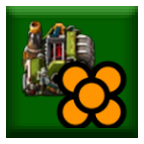
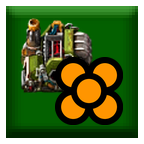
feat(upcycler-planner): declare the Space Age feature flag on the 2.0 build
The 2.0 counterpart of 0ed2088 on main. quality_required only:
expansion_required does not exist in Factorio 2.0, where a probe mod
declaring it loads clean on a no-expansion install, so it would gate
nothing. The engine agrees -- 2.0 enumerates seven feature flags to
2.1's eight, missing expansion -- and vanilla quality/info.json
splits the same way. quality_required was verified to refuse a
no-expansion 2.0 install, so it is the flag carrying the gate here.

Also brings the branch back in line with main where it had drifted
outside the declared divergent set: thumbnail.png had never received
the 7720ccd pip fix, and info.json still carried the pre-reword
description, which the portal would have flip-flopped between tracks
depending on which one published last.

Version 0.1.3, paired with 0.1.2 on main.

Changed region(s): [[0.1389, 0.1111, 0.8889, 0.8889]]

diff --git a/upcycler-planner/.ai-support/journal.md b/upcycler-planner/.ai-support/journal.md
@@ -9,6 +9,56 @@ everything older than the last release into `journal-archive/<year>.md` and leav
 
 ---
 
+## 2026-08-16 — Space Age feature flags, and the one that does not exist on 2.0
+
+The repo owner asked for the flag that makes the Space Age DLC mandatory, then for the mod to
+show up in the portal's Space Age section. Both landed, but the second ask is the one that
+actually decided the design.
+
+**The no-flag decision was reversed for a reason the old one never considered.** The original
+call weighed enforcement only, and on that ground it was right: behind a hard `quality`
+dependency, the flag gates nothing extra, because `quality` ships with Space Age and nothing
+else. What it missed is that the **mod portal tags a mod as Space Age from the expansion flags
+in its uploaded `info.json`, not from its dependency list** — so the mod was invisible in the
+portal's Space Age section no matter how hard the dependency was. That is not something the
+enforcement argument can see, and it is why the reversal is not a contradiction of the old
+entry so much as a different question.
+
+**The flag was measured rather than trusted, and the measurement paid.** Declaring a flag is a
+one-line edit that looks obviously correct, so the temptation was to write it and move on. Four
+throwaway probe mods — `info.json` only, one flag, no `quality` dependency — run against the
+two no-expansion installs settled it instead, and turned up the thing that would have shipped
+wrong: **`expansion_required` does not exist in Factorio 2.0.** The 2.0 probe declaring it
+**loaded clean on an install with no expansions at all**. Silently ignored, gating nothing — a
+dead field that reads at a glance exactly like a working gate. The engine's own startup log
+confirmed it independently: 2.1 enumerates eight feature flags, 2.0 enumerates seven, missing
+`expansion`. Vanilla `quality/info.json` agrees, declaring both flags in 2.1 and only
+`quality_required` in 2.0. Full table in `analysis/api.md` §13.
+
+So the flags fork along the same seam `info.json` already forks on, which is tidy: `main` gets
+`expansion_required` + `quality_required`, `legacy/2.0` gets `quality_required` alone. Both were
+verified to refuse a no-expansion install; `quality_required` is the one carrying the gate on
+both tracks.
+
+Two things worth knowing next time. **A refused mod crashes under `--dump-data` rather than
+printing a tidy error** — `ModManager::enterMinimalMode` in the stack trace on 2.1,
+`ModManager::loadData` on 2.0 — so the exit code alone reads as an ordinary failure and the
+stack trace is where the answer is. And **`space_travel_required` was rejected on honesty
+grounds**, not technical ones: it would have earned the portal tag too, but it unlocks planet
+and space-platform prototypes this mod never touches.
+
+What is still **unverified**: the portal tag itself. The portal API exposes no feature-flag
+field on any endpoint, so whether the Space Age section actually picks the mod up can only be
+confirmed after an upload — which needs the owner's approval for that specific release anyway.
+Wube's own statement (forum `p=698604`) names the expansion flags collectively rather than
+singling one out, and `quality_required` is among the DLC's own set, so the expectation is good
+but it is an expectation.
+
+Shipped as a paired release, prepared and stopped before upload: `0.1.2` for Factorio 2.1 and
+`0.1.3` for Factorio 2.0, both sections open at `Date: ????`. Both builds validate clean.
+
+---
+
 ## 2026-08-16 — a permanent test suite, and the eject question answered
 
 The scratch-harness era ended today: the assertion matrix every session had been rebuilding by

diff --git a/upcycler-planner/.ai-support/analysis/api.md b/upcycler-planner/.ai-support/analysis/api.md
@@ -393,3 +393,45 @@ already **carries** a player is enough, and headless GUI testing follows. The on
 player comes from the framework's bundled save, an external artifact — the specs'
 `before_all` asserts a connected player exists and says what to do when it does not.
 
+
+## 13. Space Age feature flags — the set forks between 2.0 and 2.1, verified 2026-08-16
+
+**`expansion_required` does not exist in Factorio 2.0.** The flag set is not the same on both
+tracks, which matters because a flag the game does not know is *silently ignored* rather than
+rejected — it would sit in `info.json` looking like a gate and enforcing nothing.
+
+The engine enumerates its flags at startup, and the two versions disagree by exactly one:
+
+| Install | Flags logged by `ModManager.cpp` |
+|---|---|
+| 2.1.14 | `expansion`, `expansion-shaders`, `freezing`, `quality`, `rail-bridges`, `segmented-units`, `space-travel`, `spoiling` — **eight** |
+| 2.0.77 | the same **minus `expansion`** — **seven** |
+
+Vanilla's own `quality/info.json` matches: 2.1's declares `expansion_required` **and**
+`quality_required`, 2.0's declares only `quality_required`.
+
+**Measured, not inferred.** Four one-file probe mods (`info.json` only, a single flag, no
+`quality` dependency) run through `validate.ps1` against the no-expansion installs:
+
+| Probe | 2.1 Vanilla | 2.0 Vanilla |
+|---|---|---|
+| `quality_required` | **refused** — `ModManager::enterMinimalMode` | **refused** — `ModManager::loadData` |
+| `expansion_required` | — | **loaded clean, exit 0** |
+
+Controls: the same `quality_required` probe loads clean on the 2.1 SA install (`Checksum of
+ff-probe: 0`), so the probes are well-formed and ownership is the only variable. A refusal
+surfaces as a *crash* under `--dump-data`, not a tidy message — there is no GUI to fall back
+to — so read the stack trace, not the exit code alone.
+
+Two consequences worth not re-deriving:
+
+- **Any one expansion flag makes the expansion mandatory**, and no flag is needed for the mod
+  to *consume* quality at runtime. This mod declares none of the prototype properties the
+  flags unlock; the flags are here as an ownership gate and a portal marker.
+- **The mod portal's "Space Age" tag keys off the expansion flags in the uploaded
+  `info.json`, not the dependency list** — so a mod depending on `quality` alone is *not*
+  tagged. Wube's statement names the flags collectively ("*the expansion flags (eg,
+  `space_travel_required`)*", forum `p=698604`), with `quality_required` among the DLC's own
+  set. **Unverified** for this mod: the portal API exposes no flag field, so the tag can only
+  be confirmed after an upload. `space_travel_required` would tag it too but is a false claim
+  here — it unlocks planet and space-platform prototypes this mod never touches.

diff --git a/upcycler-planner/.ai-support/decisions.md b/upcycler-planner/.ai-support/decisions.md
@@ -26,11 +26,24 @@ ships (leading dot).
   `pure-modules-realk`. `upcycler-` was rejected because the portal already carries a different
   mod named `upcycler`, likely to own that name and its derivatives; `up-` as too generic — "up"
   reads as a direction before it reads as a namespace.
-- **Hard dependency on `quality` (`>= 2.1.0` on `main`, `>= 2.0.0` on `legacy/2.0`), no
-  `quality_required` feature flag.** The mod is worthless without quality tiers, and unlike the
-  flag a hard dependency also fixes load order — the flag would only make Space Age ownership
-  mandatory. The one line delivers the recycler on both tracks: in 2.1 `quality` declares
-  `recycler >= 2.1.0`, and in 2.0 the recycler entity ships inside `quality` itself.
+- **Hard dependency on `quality` (`>= 2.1.0` on `main`, `>= 2.0.0` on `legacy/2.0`).** The mod
+  is worthless without quality tiers, and the dependency is the half that fixes load order —
+  feature flags do not. The one line delivers the recycler on both tracks: in 2.1 `quality`
+  declares `recycler >= 2.1.0`, and in 2.0 the recycler entity ships inside `quality` itself.
+- **Space Age feature flags are declared, and the set forks by game version:
+  `quality_required` on both tracks, `expansion_required` on `main` only.** Asked for by the
+  repo owner on 2026-08-16, reversing the earlier no-flag call — that call was made when the
+  only question was enforcement, where a flag is redundant behind the `quality` dependency.
+  The deciding reason is the **mod portal**, which tags a mod as Space Age from the expansion
+  flags in its uploaded `info.json` and *not* from its dependencies, so without a flag the mod
+  never appears in the portal's Space Age section however hard its dependency is.
+  `expansion_required` is omitted on `legacy/2.0` because **the flag does not exist in 2.0** —
+  measured, it is silently ignored there and gates nothing, which would be a dead field
+  pretending to be a gate (`analysis/api.md` §13). This mirrors vanilla `quality` exactly,
+  which declares both flags in 2.1 and only `quality_required` in 2.0. `space_travel_required`
+  was rejected: it would also earn the portal tag, but it unlocks planet and space-platform
+  prototypes this mod never touches, so declaring it would be a false claim about the mod.
+  Neither flag narrows the audience in practice — `quality` already ships only with Space Age.
 - **Both game tracks, forked — `main` carries no 2.0 code.** Ported to Factorio 2.0 on
   2026-08-16 at the repo owner's ask, reversing the earlier 2.1-only call — that call rested
   on "`recycler` is 2.1-only", and 2.0's `quality` mod ships the recycler entity itself, so

diff --git a/upcycler-planner/CLAUDE.md b/upcycler-planner/CLAUDE.md
@@ -92,10 +92,14 @@ work: reference only, never edited, never redistributed.
 
 The hard dependency on `quality` is deliberate and does double duty: the mod is meaningless
 without quality tiers, and it delivers the recycler on both tracks — in 2.1 `quality` itself
-declares `"recycler >= 2.1.0"`, and in 2.0 the recycler entity ships inside `quality`. **No
-`quality_required` feature flag is declared** — the flag would make Space Age ownership
-mandatory without fixing load order, which is the wrong half of what is needed. Reach for
-`feature_flags[...]` only if some behaviour should light up optionally.
+declares `"recycler >= 2.1.0"`, and in 2.0 the recycler entity ships inside `quality`. The
+dependency is also the only half of this that fixes load order; the flags below do not.
+
+**Space Age feature flags are declared, and the set forks by game version** — `quality_required`
+on both tracks, `expansion_required` on `main` **only**. Do not add `expansion_required` to
+`legacy/2.0`: the flag does not exist in Factorio 2.0, so it is silently ignored there and gates
+nothing. Do not add `space_travel_required` to either. Reasons in `.ai-support/decisions.md`; the
+measurements, including the flag set each version actually enumerates, in `analysis/api.md` §13.
 
 ## The 2.0 build
 
@@ -209,7 +213,8 @@ re-opening any of these, and don't restate a reason here.
 - Both tracks: Factorio 2.1 from `main`, 2.0 from `legacy/2.0`. No 2.0 code on `main` — the
   port is forked files on the legacy branch, declared in the repo `CLAUDE.md` → *Git*. Version
   starts at `0.1.0`.
-- Hard `quality >= 2.1.0` dependency, no feature flag. No flib dependency.
+- Hard `quality >= 2.1.0` dependency. Space Age flags declared, forking by version:
+  `quality_required` both tracks, `expansion_required` on `main` only. No flib dependency.
 - **Ghosts, one at a time — never a blueprint string.** The API forces this; see fact 1 above.
 - Shortcut → modal → Confirm → selection tool → click, gated on the `recycling` technology. The
   player selects nothing in the world but ground.
